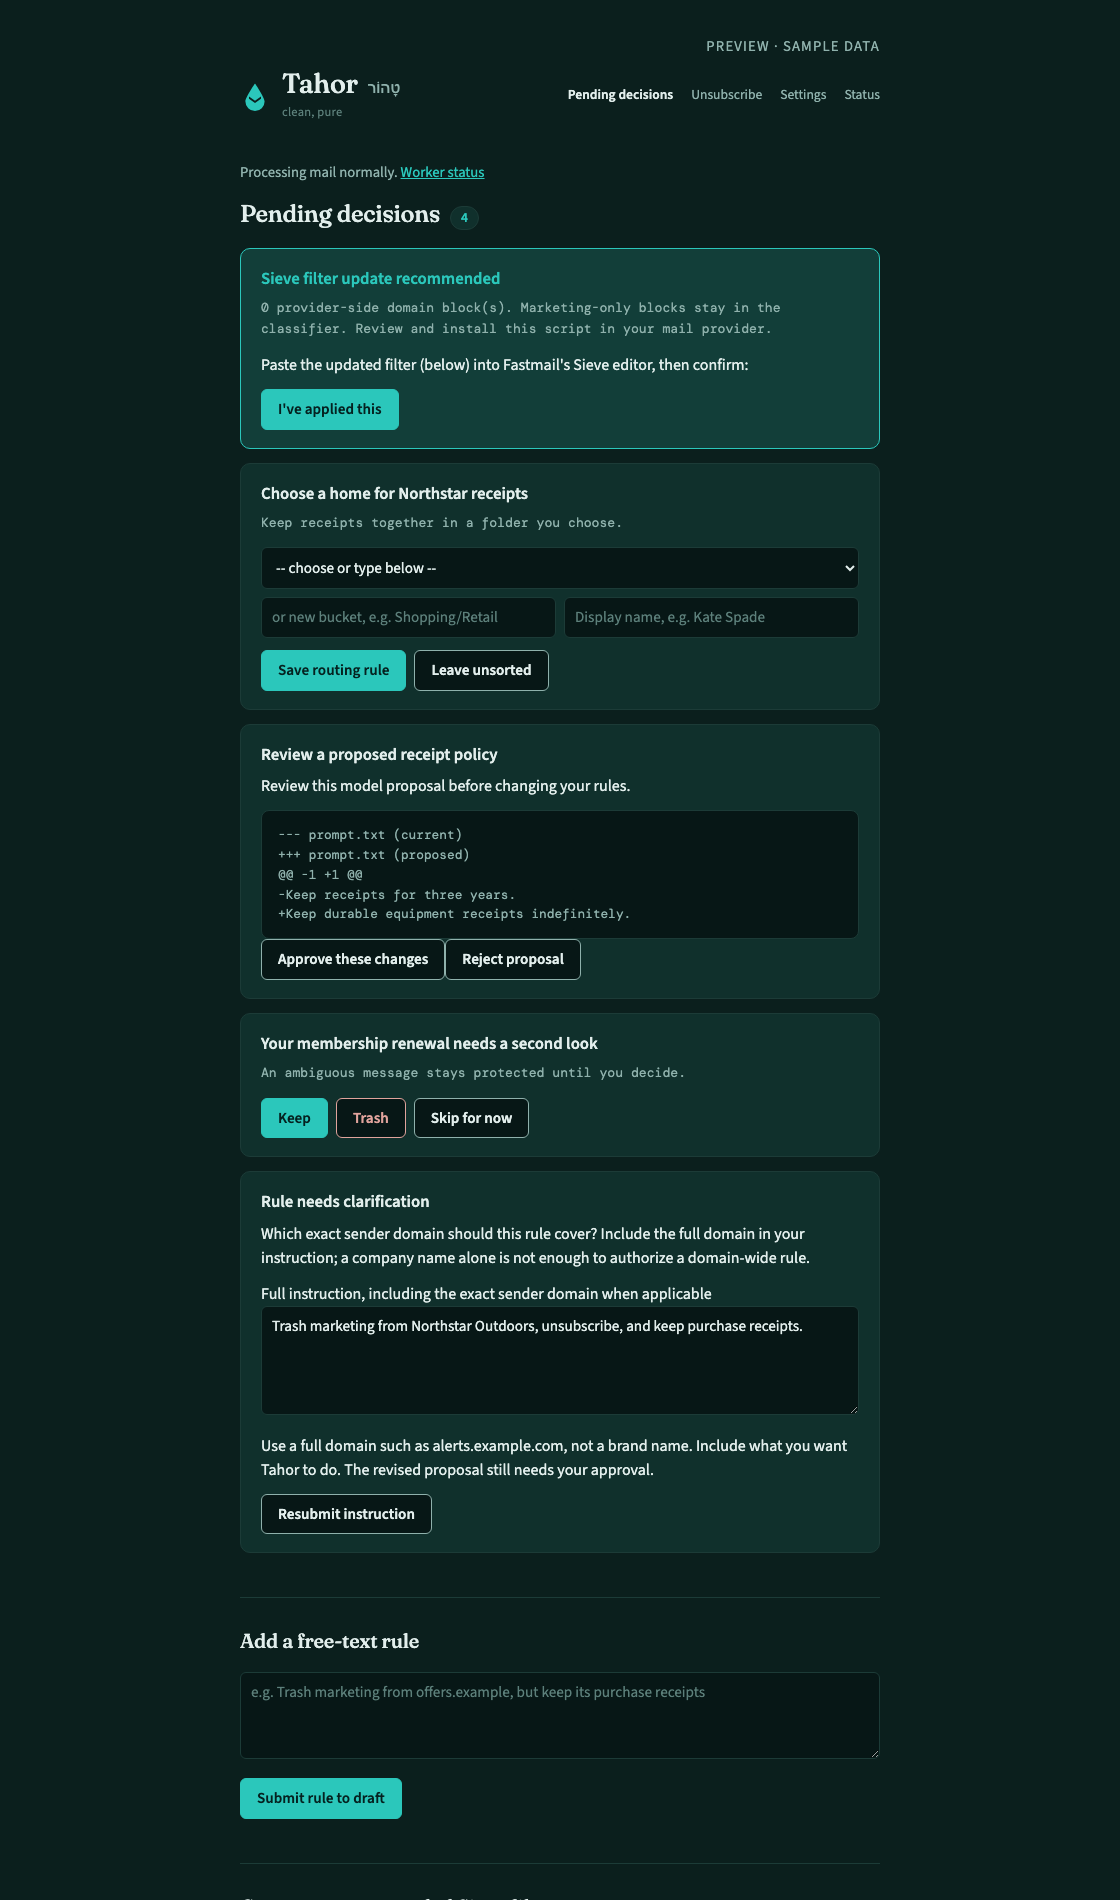
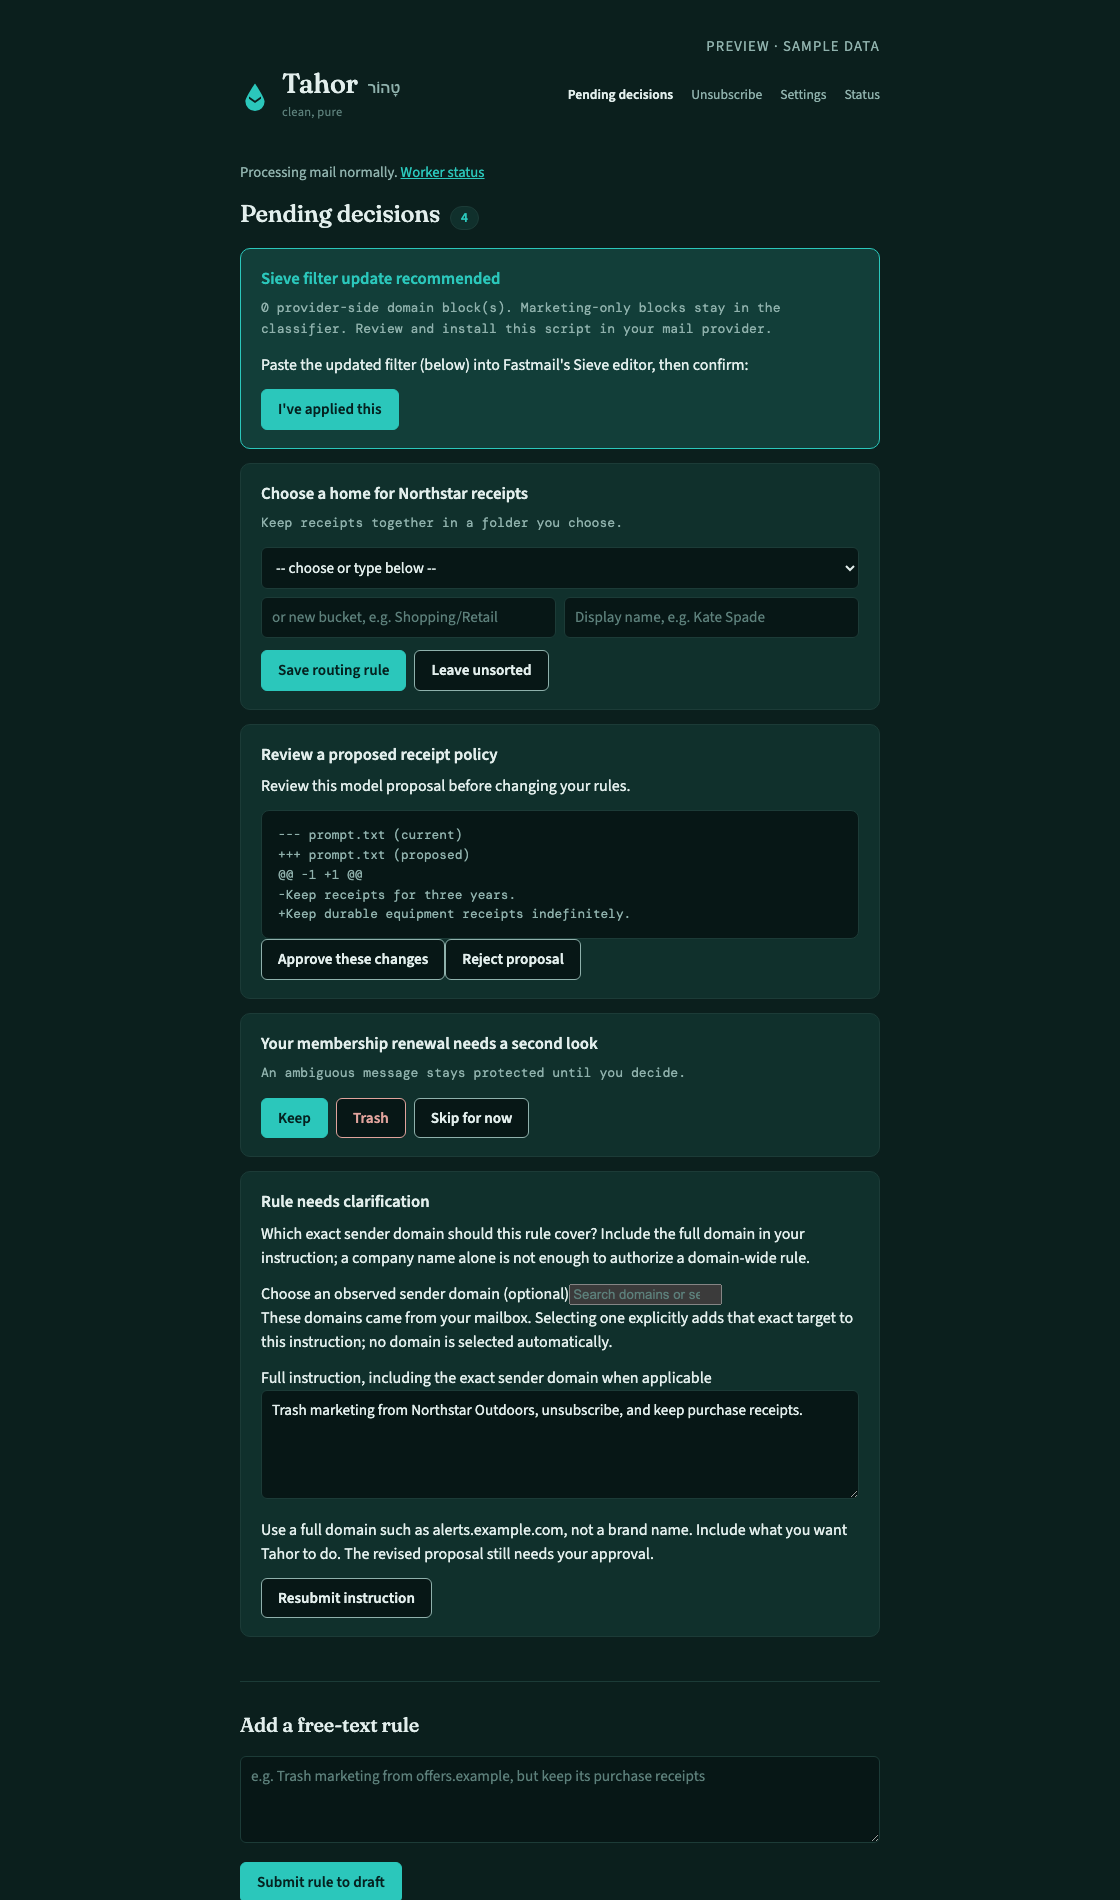
Present the current product and setup clearly in the README

Changed region(s): [[0.1875, 0.6521, 0.7812, 1.0], [0.375, 0.8695, 0.625, 0.9005]]

diff --git a/README.md b/README.md
@@ -17,8 +17,8 @@
 </p>
 
 **Tahor is a self-hosted email assistant that works inside your existing mailbox.**
-It classifies the backlog across every folder without a folder-size limit, tags
-messages, files receipts, helps you unsubscribe,
+It starts with your inbox, works through the backlog without a folder-size limit,
+tags messages, files receipts, helps you unsubscribe,
 and prepares replies for review. Your usual email client stays your email client.
 
 The name comes from **טָהוֹר**, Hebrew for “clean, pure.” The aim is practical:
@@ -37,7 +37,7 @@ that should not be left to a model.
 ## Inside the app
 
 <p align="center">
-  <img src="docs/screenshots/decisions.png" width="100%" alt="Tahor’s decision queue with a vendor routing choice, an ambiguous message, and a Sieve proposal">
+  <img src="docs/screenshots/decisions.png" width="100%" alt="Tahor’s decision queue with routing choices, rule proposals, and clarification from observed senders">
 </p>
 <p align="center"><sub>The decision queue keeps unresolved choices visible. Screenshots use synthetic data.</sub></p>
 
@@ -137,8 +137,7 @@ invent promises or details; review every draft. These
 [routing controls](https://openrouter.ai/docs/guides/features/zdr) protect provider
 selection; they do not guarantee the accuracy of a draft.
 All rule and reply writing requests require zero data retention and denied data
-collection. Retired Nemotron free and unverified direct Gemini writing routes are
-disabled; missing or obsolete selections never silently switch to a paid model. A reply
+collection. Missing or unsupported selections never silently switch to a paid model. A reply
 address must pass syntax and DNS checks. Those checks cannot prove that the
 recipient’s mailbox accepts delivery.
 
@@ -151,12 +150,10 @@ afterward. Messages needing attention or review stay protected.
 Natural-language matching shares the existing classification request, using up
 to 6,000 characters of message context when such rules are enabled. Uncertain
 matches stay pending review and do not produce a draft. Reply writing is a
-separate model request; writing starts disabled, with paid prose models
-such as Euryale available as an optional choice in Settings. **GPT-5.1 Flex**
-is another writing option: half-price input/output tokens compared with standard
-GPT-5.1, with variable latency and availability. Tahor restricts it to the Flex
-endpoint and checks the returned tier; capacity failures stay retryable without
-switching to a more expensive writing route. Classification settings are separate.
+separate model request. Choose its model and spending policy independently of
+classification: **Grok 4.6** is the recommended paid writer, and **Ling 3.0 Flash VL**
+is the free option. Additional supported choices are available in Settings.
+[Model routing and lower-cost writing options](docs/operations.md).
 
 ## Choose the pace
 
@@ -178,12 +175,12 @@ to a zero-retention endpoint with data collection denied and provider fallback
 disabled. It allows **eight concurrent requests**, with request starts spaced
 **three seconds apart**, including retries. Both settings are configurable for your
 provider limits. Concurrency overlaps slow responses; pacing limits request volume.
-The earlier 40-request setting was measured with a different model.
 
-The selected model was evaluated against 24 real messages and ten separate
-synthetic policy cases. Its completed responses made no incorrect trash
-decisions in that sample; one synthetic request timed out and passed unchanged
-on retry. This is a small validation set, not a guarantee about every email.
+**Inbox first.** While the Inbox has work, it receives three batches for every
+ordinary-folder batch. Trash waits until the Inbox is caught up. A separate,
+read-only discovery connection finds work and new folders without repeatedly
+opening processing connections to empty folders. New Inbox mail is checked between
+batches; an in-flight batch finishes before the next folder is selected.
 
 For an internet-facing server, use the [dedicated service-account setup](docs/service-isolation.md)
 to keep application code read-only and run without administrator privileges.
@@ -200,7 +197,8 @@ exact sender action or file diff before approving. Domain blocks require the exa
 domain in your instruction; a brand name or single email address cannot authorize
 a whole-domain block. If the scope is unclear, Tahor preserves your instruction
 and asks for clarification instead of guessing or repeatedly retrying. Edit the
-complete instruction in the decision queue and resubmit it for a new proposal.
+complete instruction in the decision queue, optionally choose a sender domain
+Tahor has observed in your mailbox, and resubmit it for a new proposal.
 Changed underlying rules invalidate an older proposal.
 **Grok 4.6** is the recommended rule-writing option, selected independently from
 classification and reply writing; its requests use the xAI zero-retention route.
@@ -209,15 +207,12 @@ classification and reply writing; its requests use the xAI zero-retention route.
 
 Choose **Always free** for each enabled AI task and use an existing computer for
 hosting. Rule and reply writing remain disabled until you enable them in Settings.
-The free model uses the same privacy restrictions as its paid counterparts, but
-its mistakes matter: the original 24-message classifier evaluation included five
-incorrect trash decisions, including important mail. Rule drafting chose the wrong
-folder in one of eight cases; generated rules require approval before application.
-The selected free writer can add unsupported promises or details to a reply.
-
-These are observed examples, not universal error rates. Settings exposes these
-limitations so you can choose the tradeoff. Paid and free models are tested
-separately; a good prose result does not establish safe classification behavior.
+The free model uses the same privacy restrictions as the paid routes, but has
+known accuracy limitations: it can classify important mail as trash, choose the
+wrong destination for a rule, or add unsupported promises and details to a reply.
+Since classification can trigger deletion, read the disclosures in Settings before
+enabling free processing. Generated rules require approval; replies remain drafts
+for you to review. Paying for a model does not guarantee correctness either.
 
 This does not make your email account, hardware, electricity, or hosting free.
 Free model capacity and account quotas are provider-controlled. OpenRouter can
@@ -257,14 +252,14 @@ external database, or frontend build is required.
 
 | Component | Responsibility |
 | :--- | :--- |
-| `backlog_worker.py` | Fetch, classify, recover from backend failures, and apply tags |
+| `backlog_worker.py` / `mailbox_scheduler.py` | Prioritize Inbox work, discover active folders, classify, and retry failed batches |
 | `process_batch.py` / `keyword_tool.py` | Enforce sender rules and track confirmed mailbox writes |
 | `filing_sweep.py` | Move aged receipts, statements, and tax mail with IMAP `MOVE` |
 | `retention_sweep.py` | Delete expired mail and retry pending trash deletion with targeted UID expunge |
 | `decision-app/` | Review decisions, apply rules, manage subscriptions and model settings |
 | `draft_replies.py` / `reply_rules.py` | Match owner instructions and prepare recoverable, thread-aware mailbox drafts |
 | `runtime_status.py` / `notifications.py` | Share worker progress; optionally add health alerts and daily counts to the owner’s inbox |
-| `scripts/private_backup.py` | Create and verify private snapshots; restore after stopping services |
+| `scripts/private_backup.py` / `scripts/offhost_backup.py` | Verify private snapshots, keep off-host recovery copies, and restore after stopping services |
 | `setup_tahor.py` / `run.py` | Configure a private instance and launch each component consistently |
 
 ### Engineering choices
@@ -342,7 +337,12 @@ unless you explicitly enable pushing. Credentials, message batches, databases,
 and logs do not belong in either repository. Gitignore rules help; review staged
 changes before publishing.
 
-[Private backups and restore](docs/private-backups.md) ·
+Private snapshots preserve your rules, preferences, draft journal, and pending
+decisions. A separate computer can pull and verify recovery copies over SSH,
+including the Fastmail connector’s rule-ownership records. Login credentials and
+session tokens are excluded. Enable overdue-backup alerts to detect a missed copy.
+
+[Set up backups and recovery](docs/private-backups.md) ·
 [Health alerts and daily summaries](docs/notifications.md)
 
 ## Development and verification

diff --git a/docs/operations.md b/docs/operations.md
@@ -214,22 +214,17 @@ web app. `CLASSIFY_BACKEND` is for the standalone `classify.py` utility; it does
 not override the continuous worker’s Free/Paid/Auto setting.
 
 The standalone classifier also supports a local OpenAI-compatible endpoint.
-Direct Google requests are disabled pending account-specific privacy verification.
-The integrated continuous worker uses the two OpenRouter tiers.
+The integrated continuous worker uses the two privacy-restricted OpenRouter tiers.
+Unverified direct-provider routes are disabled.
 The paid model is `google/gemini-3.8-flash`, pinned to
 `google-vertex/global` with provider fallback disabled, zero data retention,
 and data collection denied. Requests use low reasoning effort and a 2,048-token
 output budget. The endpoint does not advertise temperature support; do not
 assume it honors the requested temperature. Up to eight requests overlap, with
-starts paced three seconds apart across worker threads, including retries. The
-unpaced deployment encountered HTTP 429 responses; accuracy benchmarks do not
-establish sustained rate limits. The previous 40-request benchmark applied to
-Nemotron, not this provider/model combination.
-
-The selection was checked on 24 real messages and ten separate synthetic policy
-cases. Completed Gemini 3.8 responses made no incorrect trash decisions in those
-samples. One synthetic request timed out and passed the unchanged case on retry.
-These limited evaluations do not establish a general accuracy guarantee.
+starts paced three seconds apart across worker threads, including retries.
+Recheck throughput and provider throttling whenever you change models or routes.
+Reduce request volume if sustained throttling occurs; increasing concurrency alone
+does not increase the provider’s allowed request rate. Model output remains fallible.
 
 The free Ling classifier is available by informed choice. The original 24-message
 evaluation included five incorrect trash decisions, including important messages.

diff --git a/docs/setup.md b/docs/setup.md
@@ -27,8 +27,8 @@ The interactive installer asks for the mailbox email, IMAP app password, and
 OpenRouter key. Passwords are hidden while entered. Nothing starts automatically.
 The example explicitly selects always-paid classification. Omitting `--mode paid_only`
 uses always-free classification, which never incurs paid requests. Review the
-free-model disclosures before processing: the original evaluation included
-incorrect trash decisions on important messages. Settings provides four separate
+free-model disclosures before processing: the free classifier can incorrectly
+classify important messages as trash. Settings provides four separate
 policies for classification, reply writing, and rule writing.
 
 For a different mail provider:
